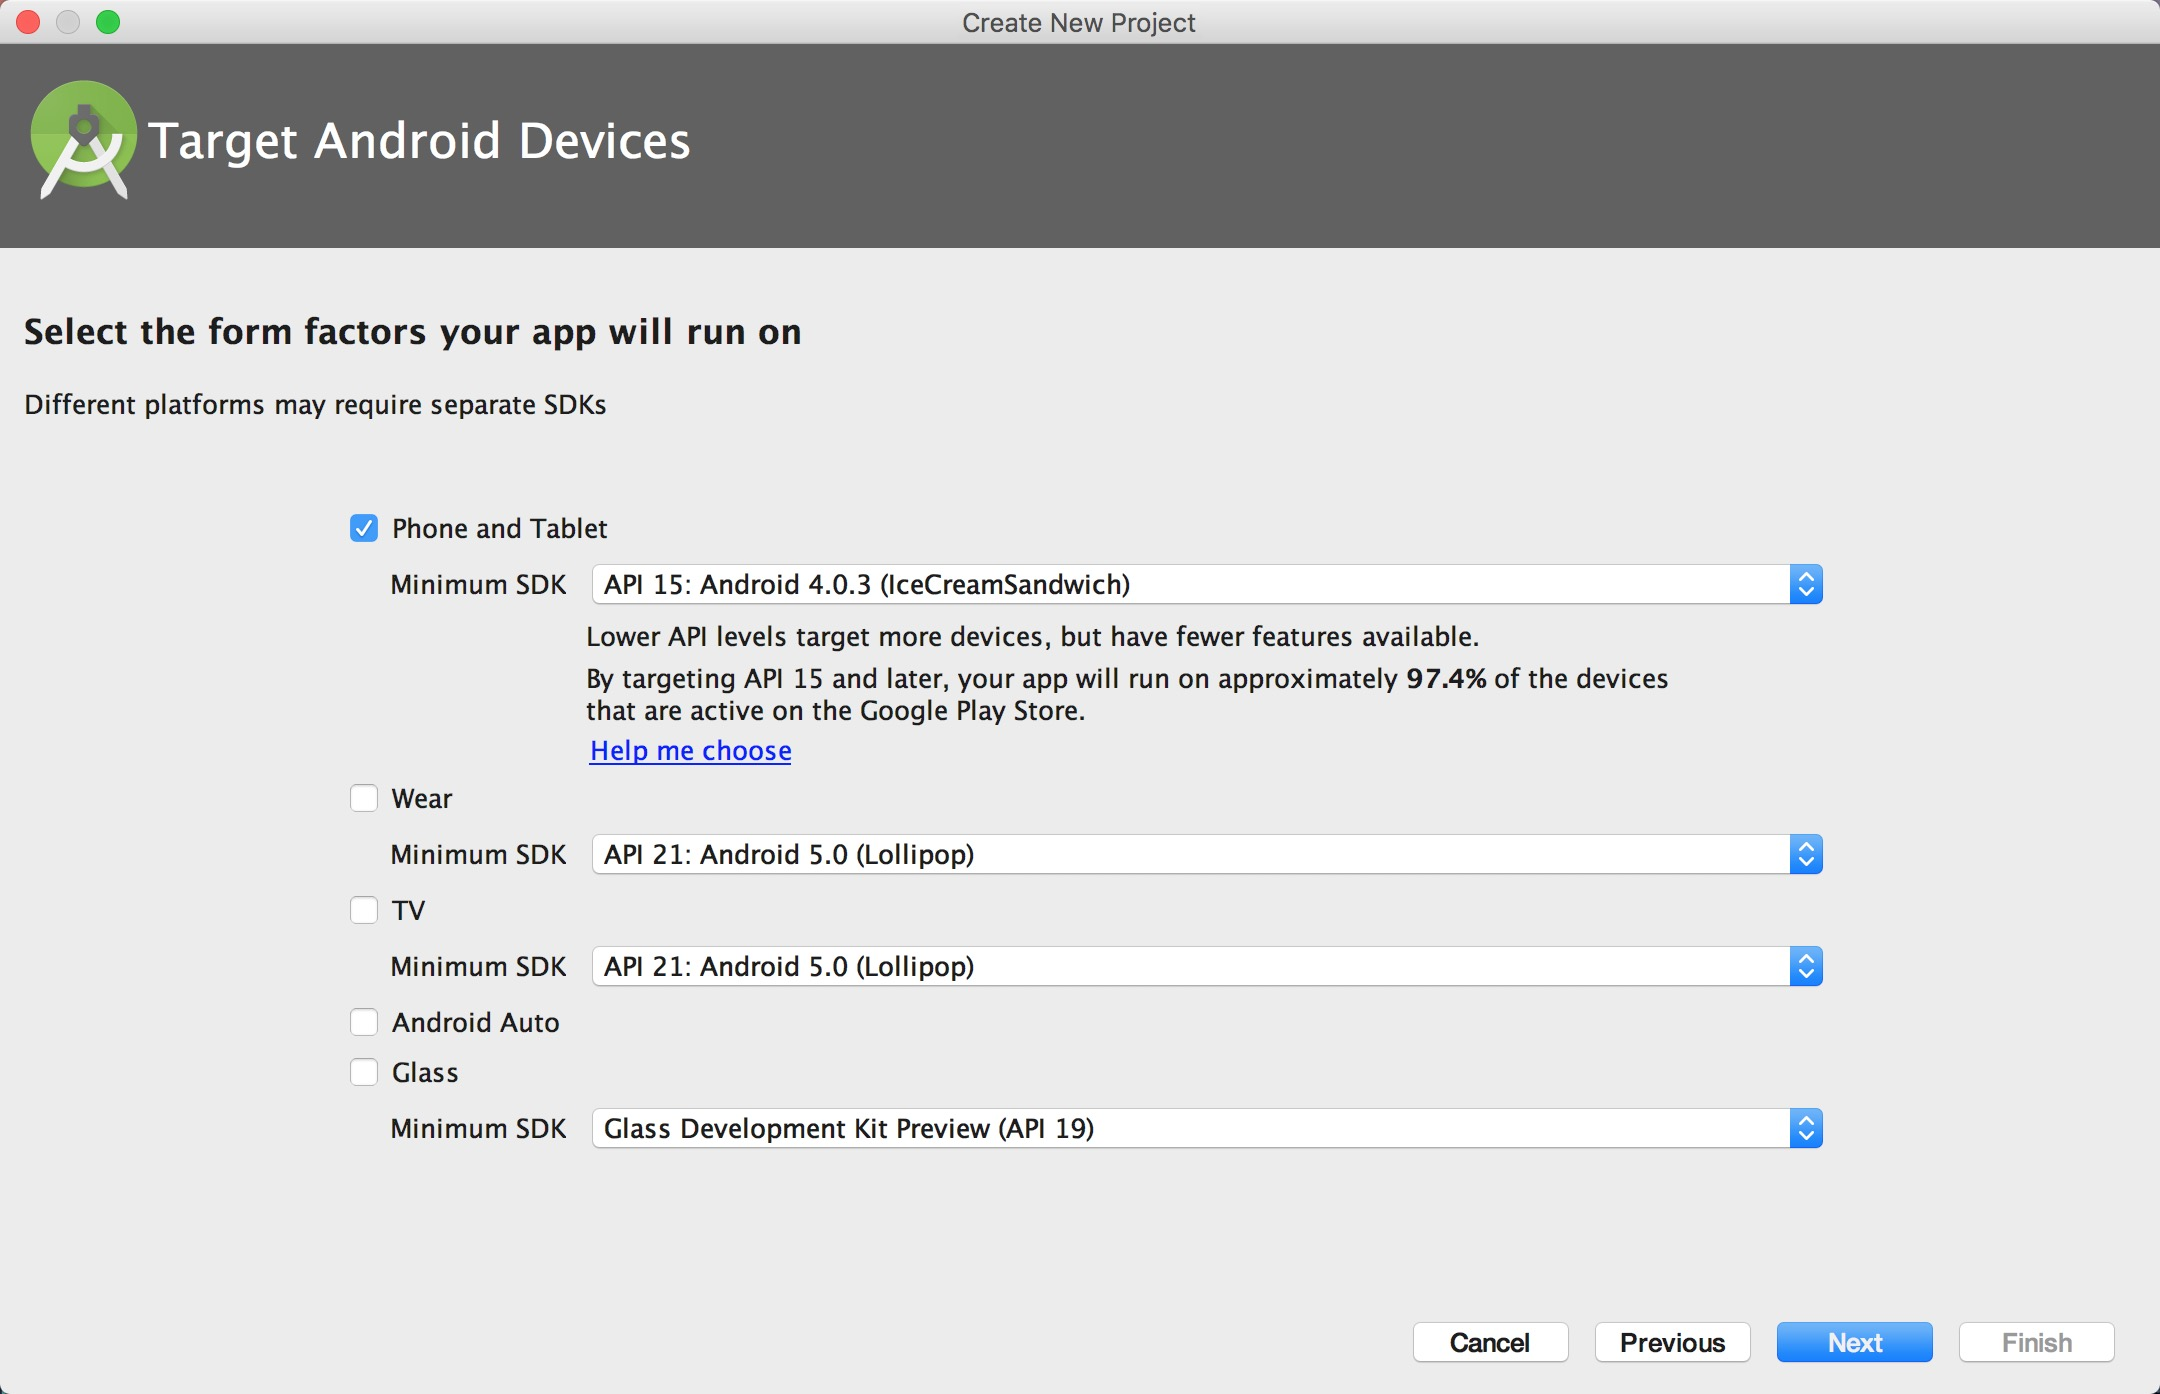
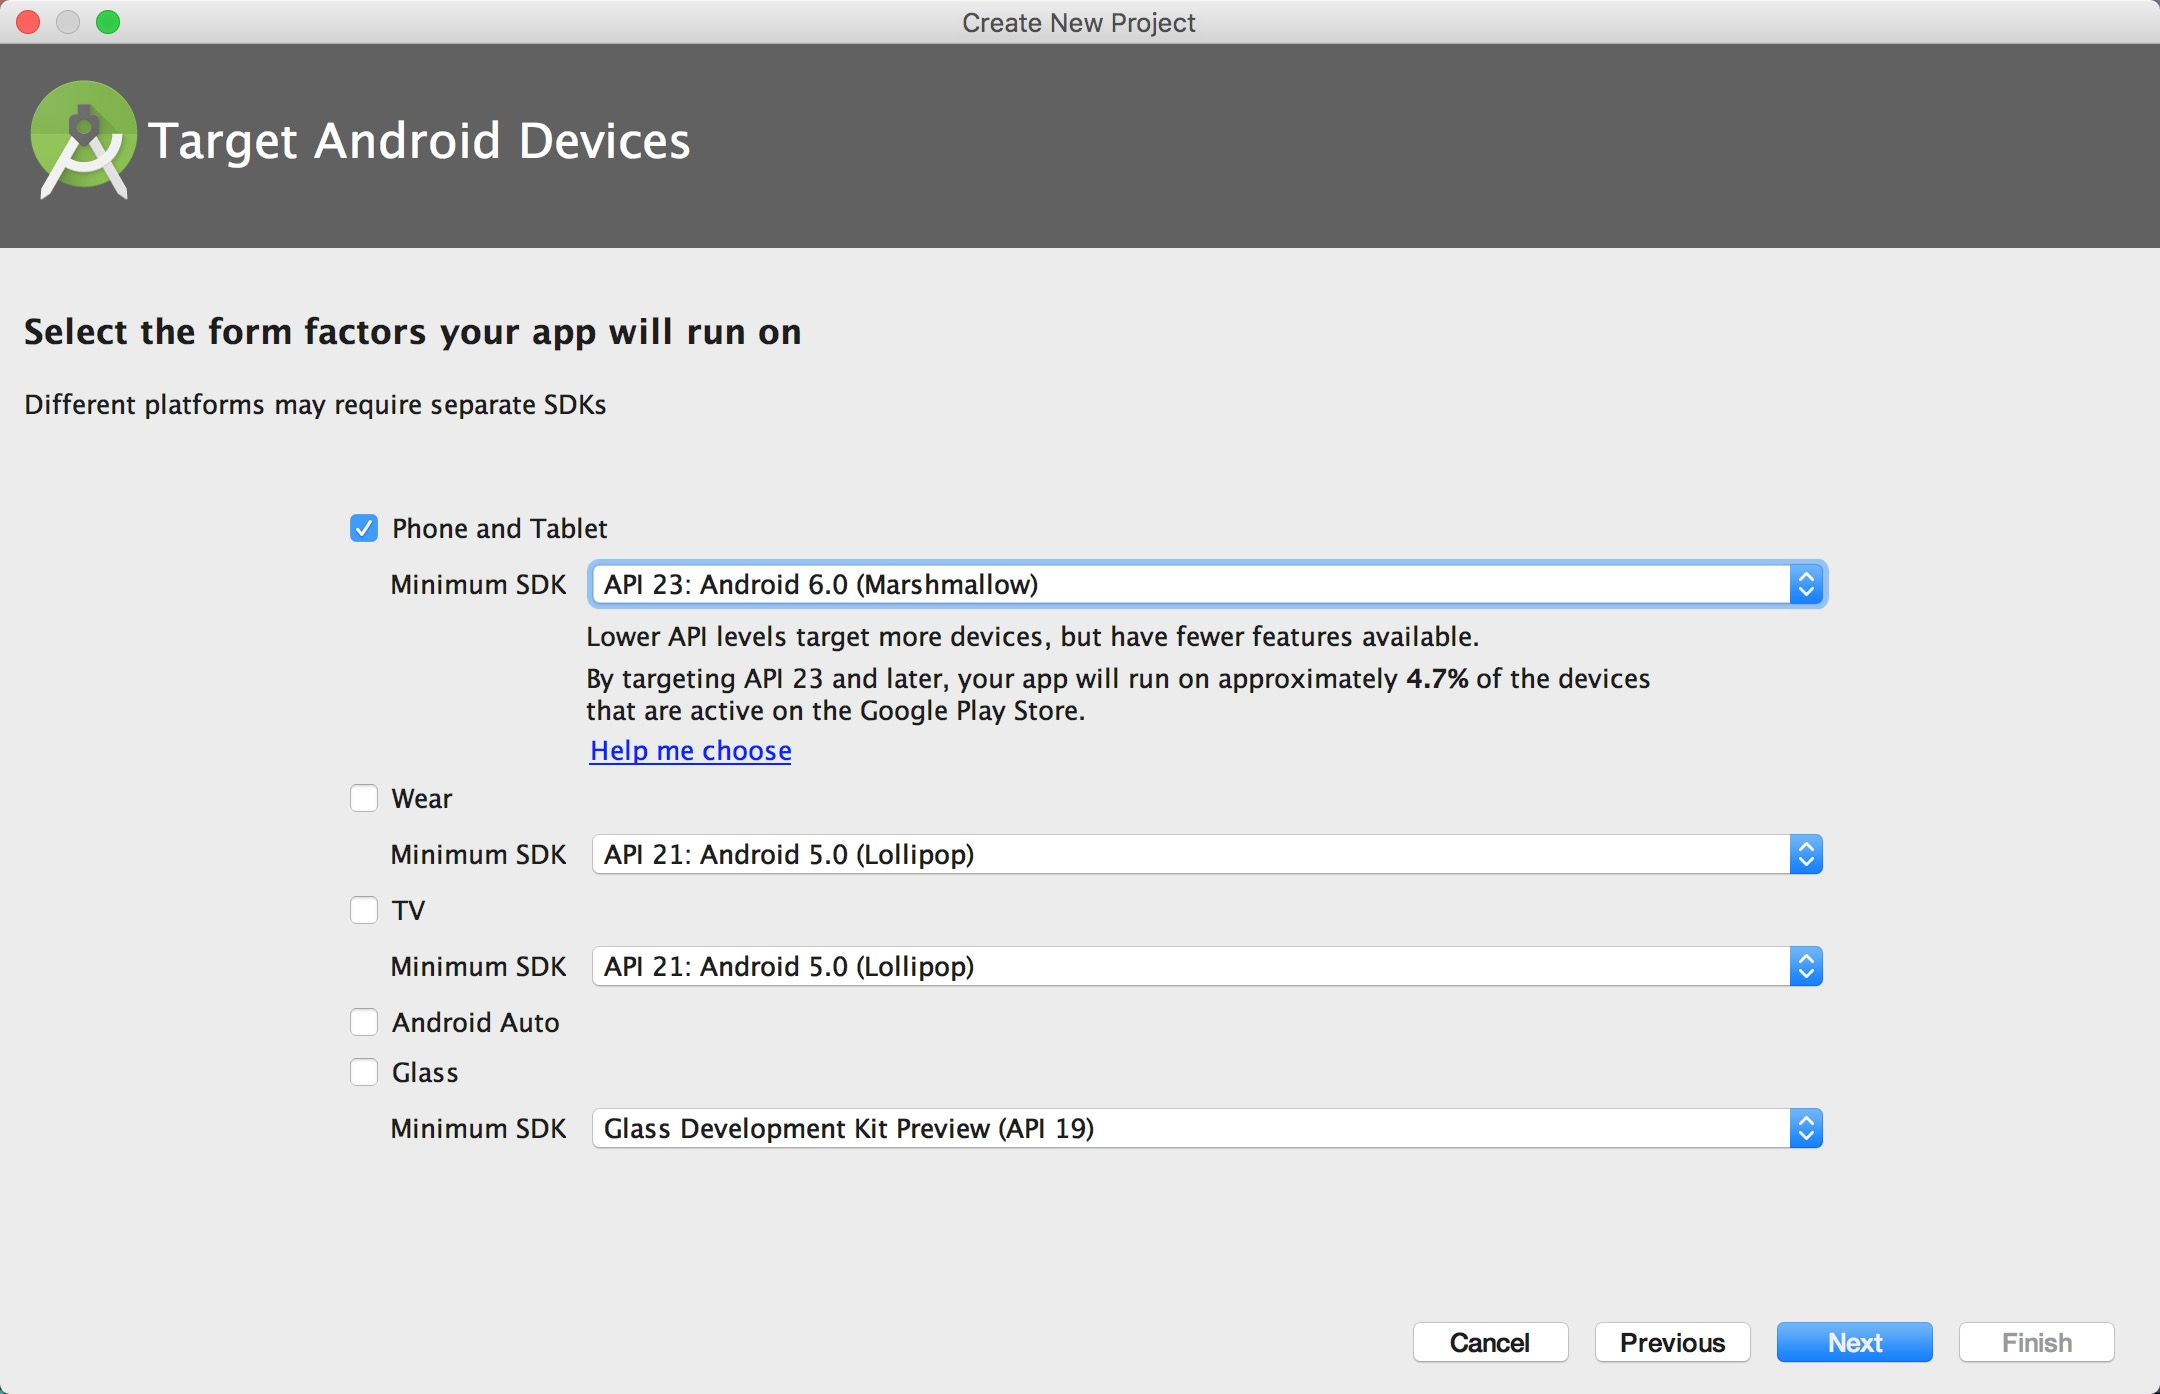
update

Changed region(s): [[0.2481, 0.401, 0.8685, 0.4935]]

diff --git a/README.md b/README.md
@@ -28,3 +28,4 @@
 [基于HTTP协议的VPN]:https://github.com/Thelordofdream/Android-Introduction/blob/master/设置HTTP%20Proxy.md#基于http协议的vpn
 [基于SOCKS协议的VPN]:https://github.com/Thelordofdream/Android-Introduction/blob/master/设置HTTP%20Proxy.md#基于socks协议的vpn
 [下载和管理SDK]:https://github.com/Thelordofdream/Android-Introduction/blob/master/下载和管理SDK.md#下载和管理sdk
+[创建Android新项目]:https://github.com/Thelordofdream/Android-Introduction/blob/master/创建Android新项目.md#创建android新项目

diff --git a/创建Android新项目.md b/创建Android新项目.md
@@ -7,4 +7,6 @@
 
 <div align="center"><image src = https://raw.githubusercontent.com/Thelordofdream/Android-Introduction/master/images/023.png onload = 'this.width=400'/></div>
 
-* 
+* 选择想要的Phone and Tablet的Minimum SDK，最好选择为Android 6.0，因为；  
+
+<div align="center"><image src = https://raw.githubusercontent.com/Thelordofdream/Android-Introduction/master/images/024.png onload = 'this.width=400'/></div>
